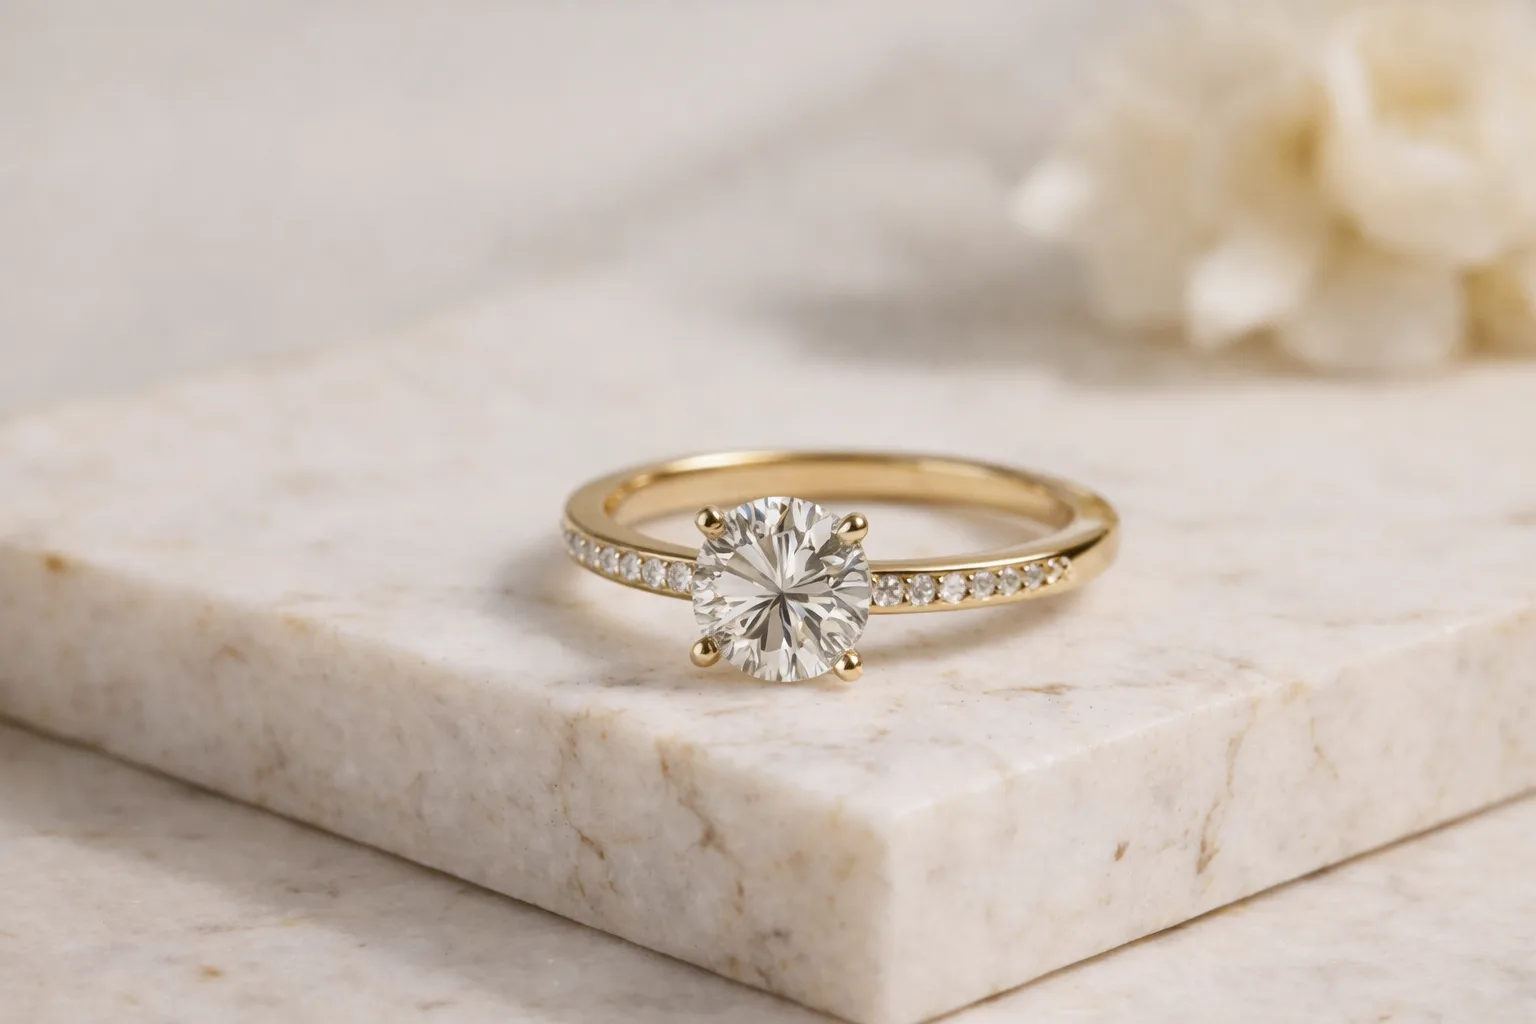
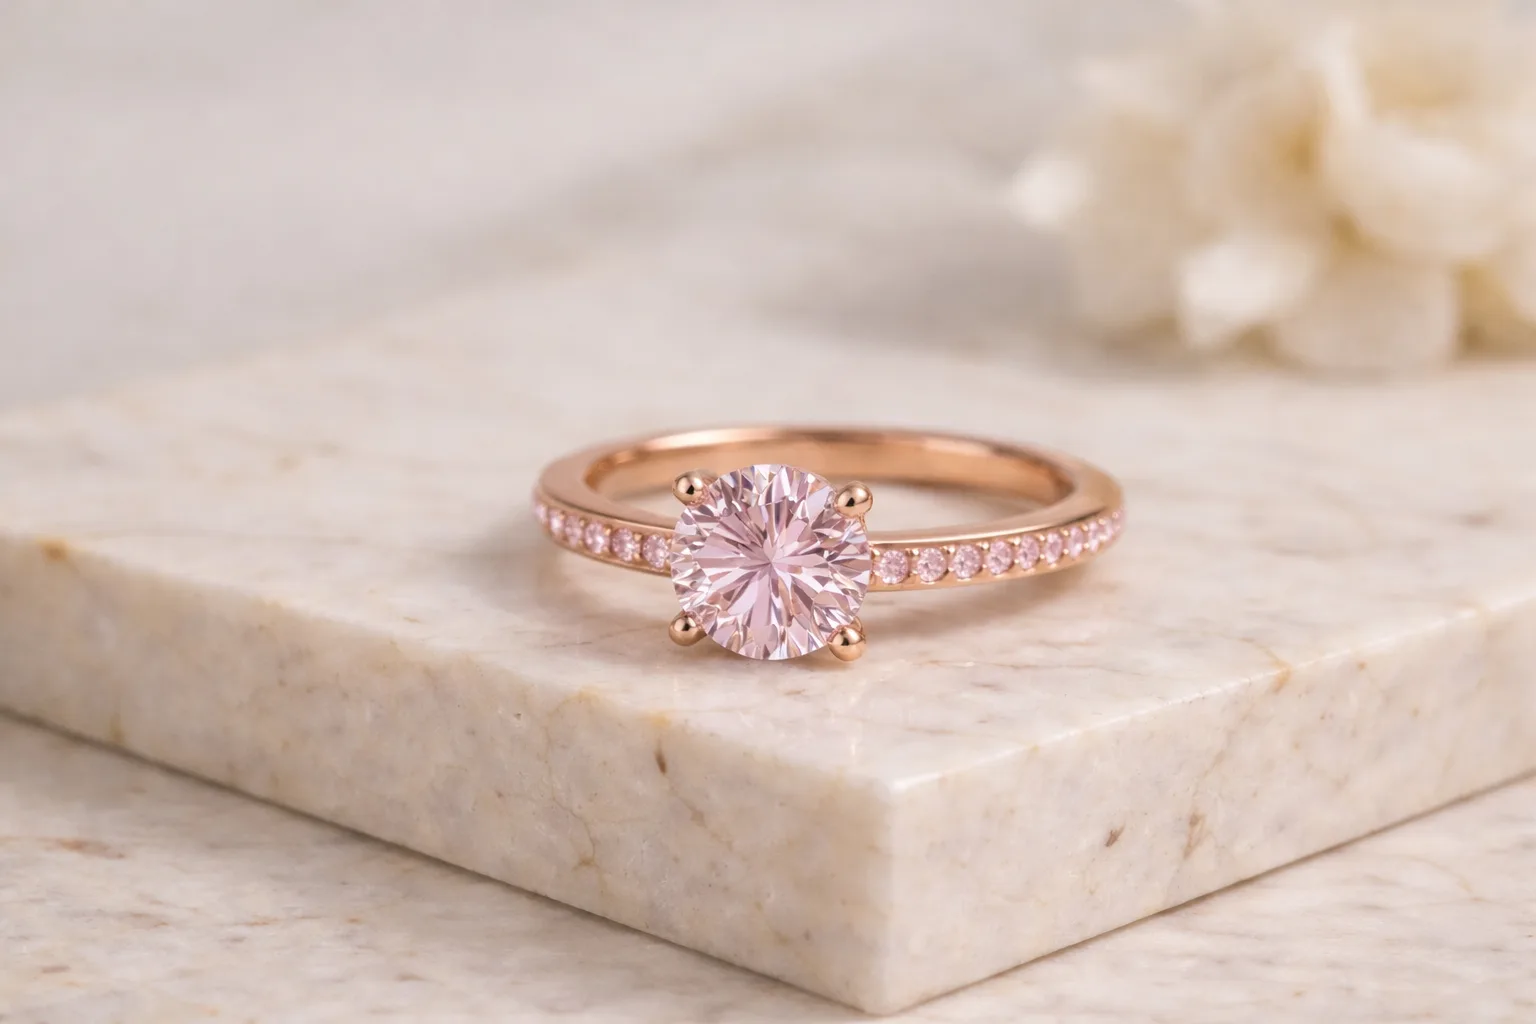
feat: product shot mode improvements
- Step 2 label shows Inspiration (not Choose Model) in product shot mode
- Mode switcher highlights correct active mode
- Revert StudioTypeSelection product shot card to original diamond ring image
- Replace ps-rings with pink rose gold ring
- Replace ps-watches with rose gold watch

diff --git a/src/pages/UnifiedStudio.tsx b/src/pages/UnifiedStudio.tsx
@@ -586,6 +586,7 @@ export default function UnifiedStudio() {
   // ─── Pre-load vault asset (Re-shoot / New Shoot from My Products or My Models) ───
 
   const location = useLocation();
+  const isProductShot = (location.state as any)?.mode === 'product-shot';
   // Intentionally empty deps: pre-load runs once on mount from route state.
   // Adding 'location' to deps would re-apply pre-load on every in-studio navigation, which is wrong.
   // eslint-disable-next-line react-hooks/exhaustive-deps
@@ -1111,14 +1112,14 @@ export default function UnifiedStudio() {
           {isStudioTypeSelectionEnabled(user?.email) && (
             <div className="flex items-center border border-border bg-background">
               <button
-                onClick={() => {/* already in model shot */}}
-                className="px-5 py-2 font-mono text-[11px] tracking-[0.18em] uppercase font-semibold bg-foreground text-background transition-all"
+                onClick={() => !isProductShot ? undefined : navigate('/studio/categories')}
+                className={`px-5 py-2 font-mono text-[11px] tracking-[0.18em] uppercase font-semibold transition-all ${!isProductShot ? 'bg-foreground text-background' : 'text-muted-foreground hover:text-foreground'}`}
               >
                 Model Shot
               </button>
               <button
-                onClick={() => navigate('/studio/product-shot/categories')}
-                className="px-5 py-2 font-mono text-[11px] tracking-[0.18em] uppercase font-semibold text-muted-foreground hover:text-foreground transition-all"
+                onClick={() => isProductShot ? undefined : navigate('/studio/product-shot/categories')}
+                className={`px-5 py-2 font-mono text-[11px] tracking-[0.18em] uppercase font-semibold transition-all ${isProductShot ? 'bg-foreground text-background' : 'text-muted-foreground hover:text-foreground'}`}
               >
                 Product Shot
               </button>
@@ -1129,7 +1130,7 @@ export default function UnifiedStudio() {
           <div className="flex items-center justify-center gap-0">
             {[
               { step: 1, label: 'Upload', id: 'upload' as const },
-              { step: 2, label: 'Choose Model', id: 'model' as const },
+              { step: 2, label: isProductShot ? 'Inspiration' : 'Choose Model', id: 'model' as const },
               { step: 3, label: 'Results', id: 'results' as const },
             ].map((s, index, arr) => {
               const stepOrder = { upload: 0, model: 1, generating: 2, results: 2 };

diff --git a/src/pages/StudioTypeSelection.tsx b/src/pages/StudioTypeSelection.tsx
@@ -6,7 +6,7 @@ import { PeopleIcon } from '@/components/icons/PeopleIcon';
 import { RingIcon } from '@/components/icons/RingIcon';
 
 import modelShotImg from '@/assets/jewelry/model-shot-card.webp';
-import productShotImg from '@/assets/jewelry/ps-rings.webp';
+import productShotImg from '@/assets/cad-studio/product-shot-card.webp';
 
 const modes = [
   {

diff --git a/src/pages/ProductShotCategories.tsx b/src/pages/ProductShotCategories.tsx
@@ -47,7 +47,7 @@ const ProductShotCategories = () => {
       category: TO_SINGULAR[category.id] ?? category.id,
       is_first_selection: isFirst,
     });
-    navigate(`/studio/${category.id}`);
+    navigate(`/studio/${category.id}`, { state: { mode: 'product-shot' } });
   };
 
   return (
